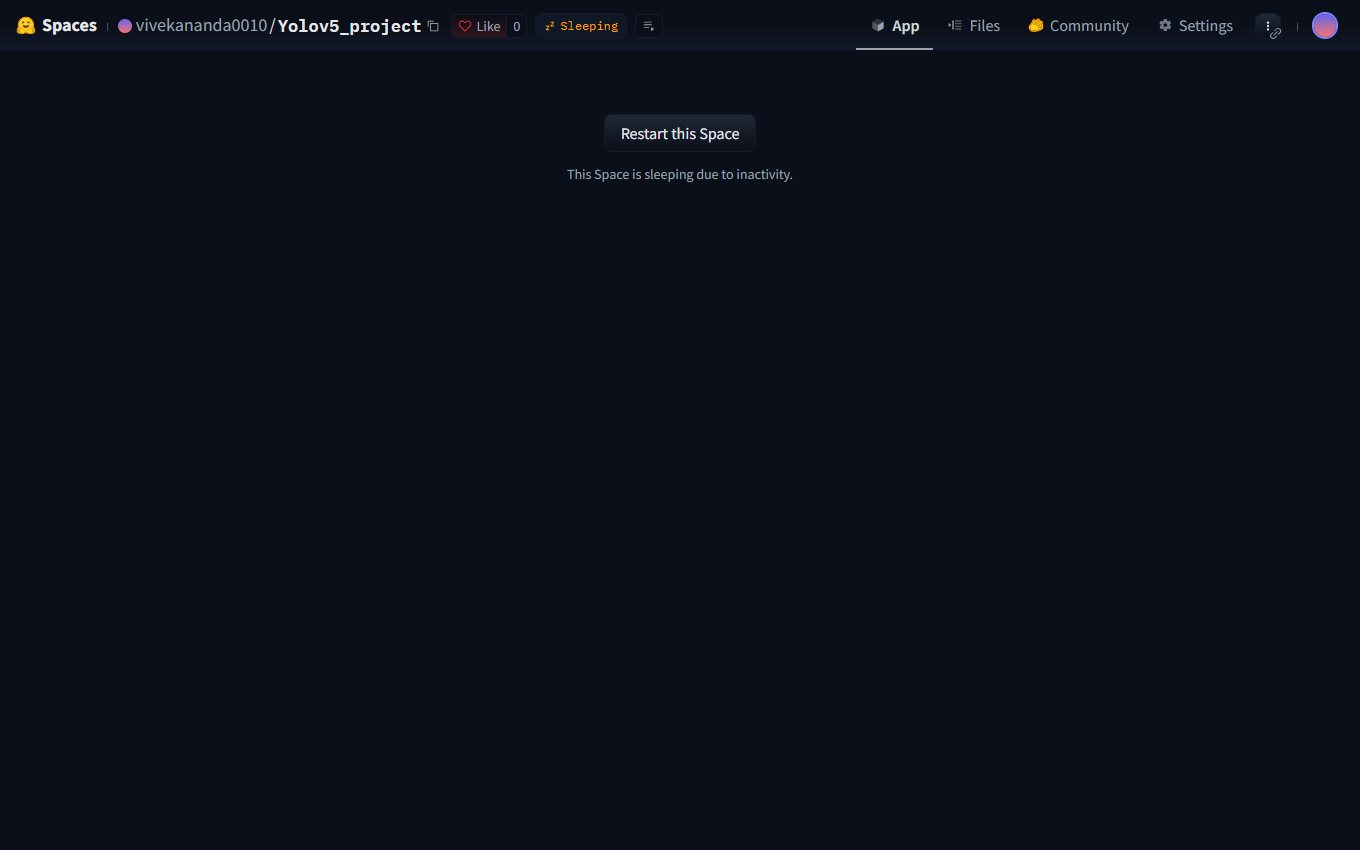
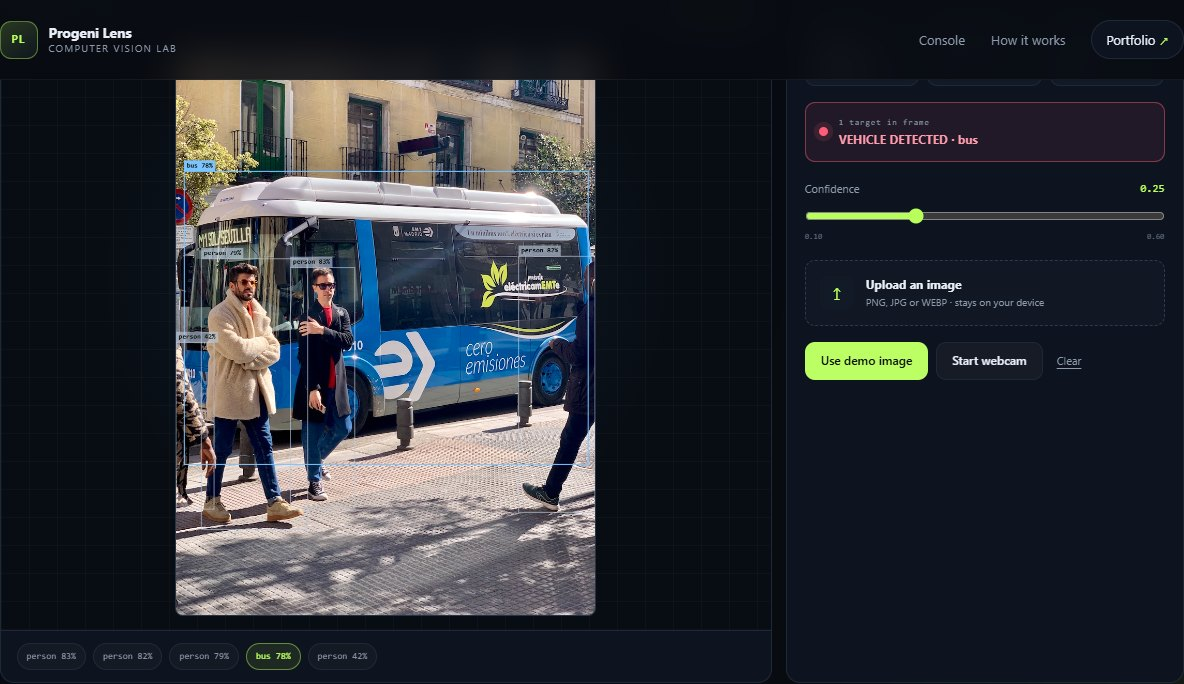
Link Progeni Lens Vercel demo with live UI screenshot

diff --git a/index.html b/index.html
@@ -348,20 +348,21 @@
 
           <article class="project-card" data-category="vision" data-reveal>
             <div class="project-visual">
-              <img src="assets/thumb-lens.jpg" alt="Actual Hugging Face Space page for Progeni-Lens real-time object detection" loading="eager" decoding="async" />
-              <span class="visual-badge">Live demo</span>
+              <img src="assets/thumb-lens.jpg" alt="Actual Progeni Lens live console showing YOLOv5 detection boxes and alerts" loading="eager" decoding="async" />
+              <span class="visual-badge">Live at progeni-lens.vercel.app</span>
             </div>
             <div class="project-body">
               <div class="project-meta"><span class="tag">Demo</span><span>Computer vision</span></div>
               <h3>Progeni-Lens</h3>
-              <p>Real-time object and risk detection for exam monitoring, traffic analysis, security and industrial safety — on uploads or a live webcam.</p>
+              <p>YOLOv5s ONNX running fully in the browser — upload an image or open the webcam, then filter detections for traffic, proctoring, security and workplace scenarios.</p>
               <ul class="project-points">
-                <li>YOLOv5 exported to ONNX with OpenCV preprocessing</li>
-                <li>25% lower latency and sustained 30+ FPS on standard hardware</li>
+                <li>FP16 ONNX Runtime Web inference with letterbox preprocessing and per-class NMS</li>
+                <li>Client-side webcam + upload pipeline with mode-based COCO class alerts</li>
               </ul>
-              <div class="tech-row"><span>YOLOv5</span><span>OpenCV</span><span>ONNX</span><span>Python</span></div>
+              <div class="tech-row"><span>YOLOv5</span><span>ONNX</span><span>ONNX Runtime Web</span><span>JavaScript</span></div>
               <div class="project-links">
-                <a href="https://huggingface.co/spaces/vivekananda0010/Yolov5_project" target="_blank" rel="noopener noreferrer">Live demo <span>↗</span></a>
+                <a href="https://progeni-lens.vercel.app" target="_blank" rel="noopener noreferrer">Live demo <span>↗</span></a>
+                <a href="https://github.com/vivekanandkumar001/Progeni-Lens" target="_blank" rel="noopener noreferrer">Code <span>↗</span></a>
               </div>
             </div>
           </article>
